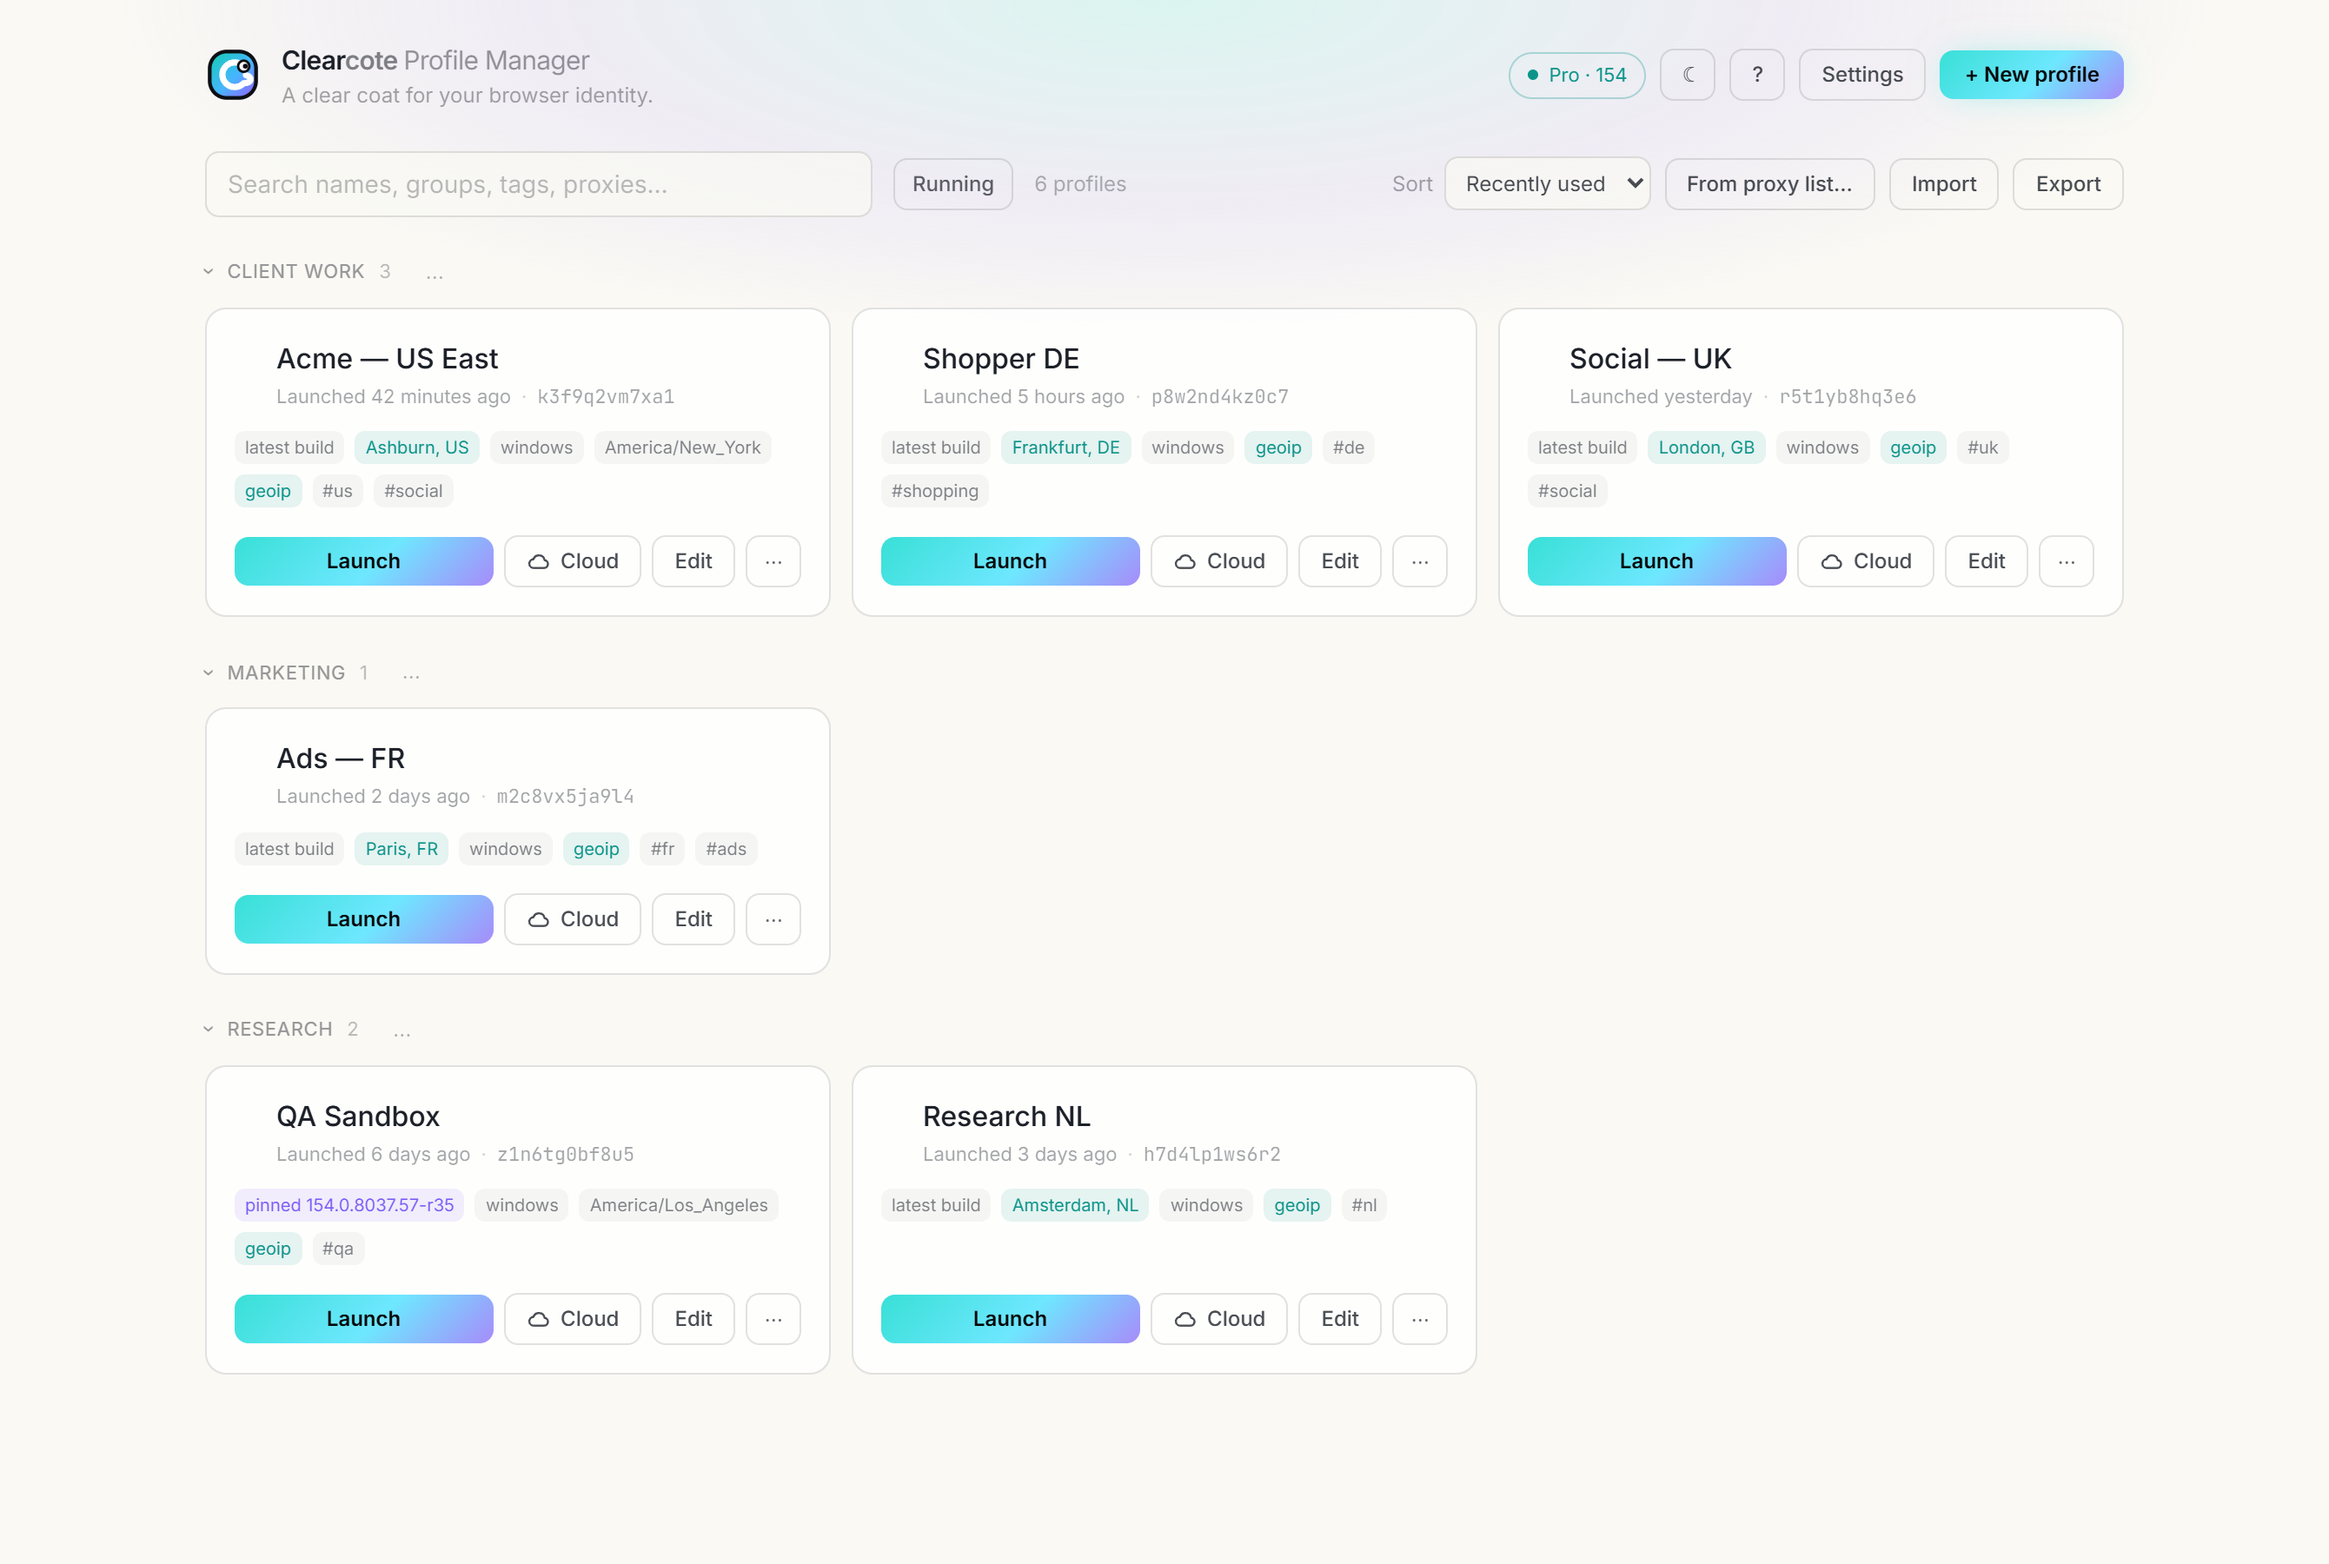
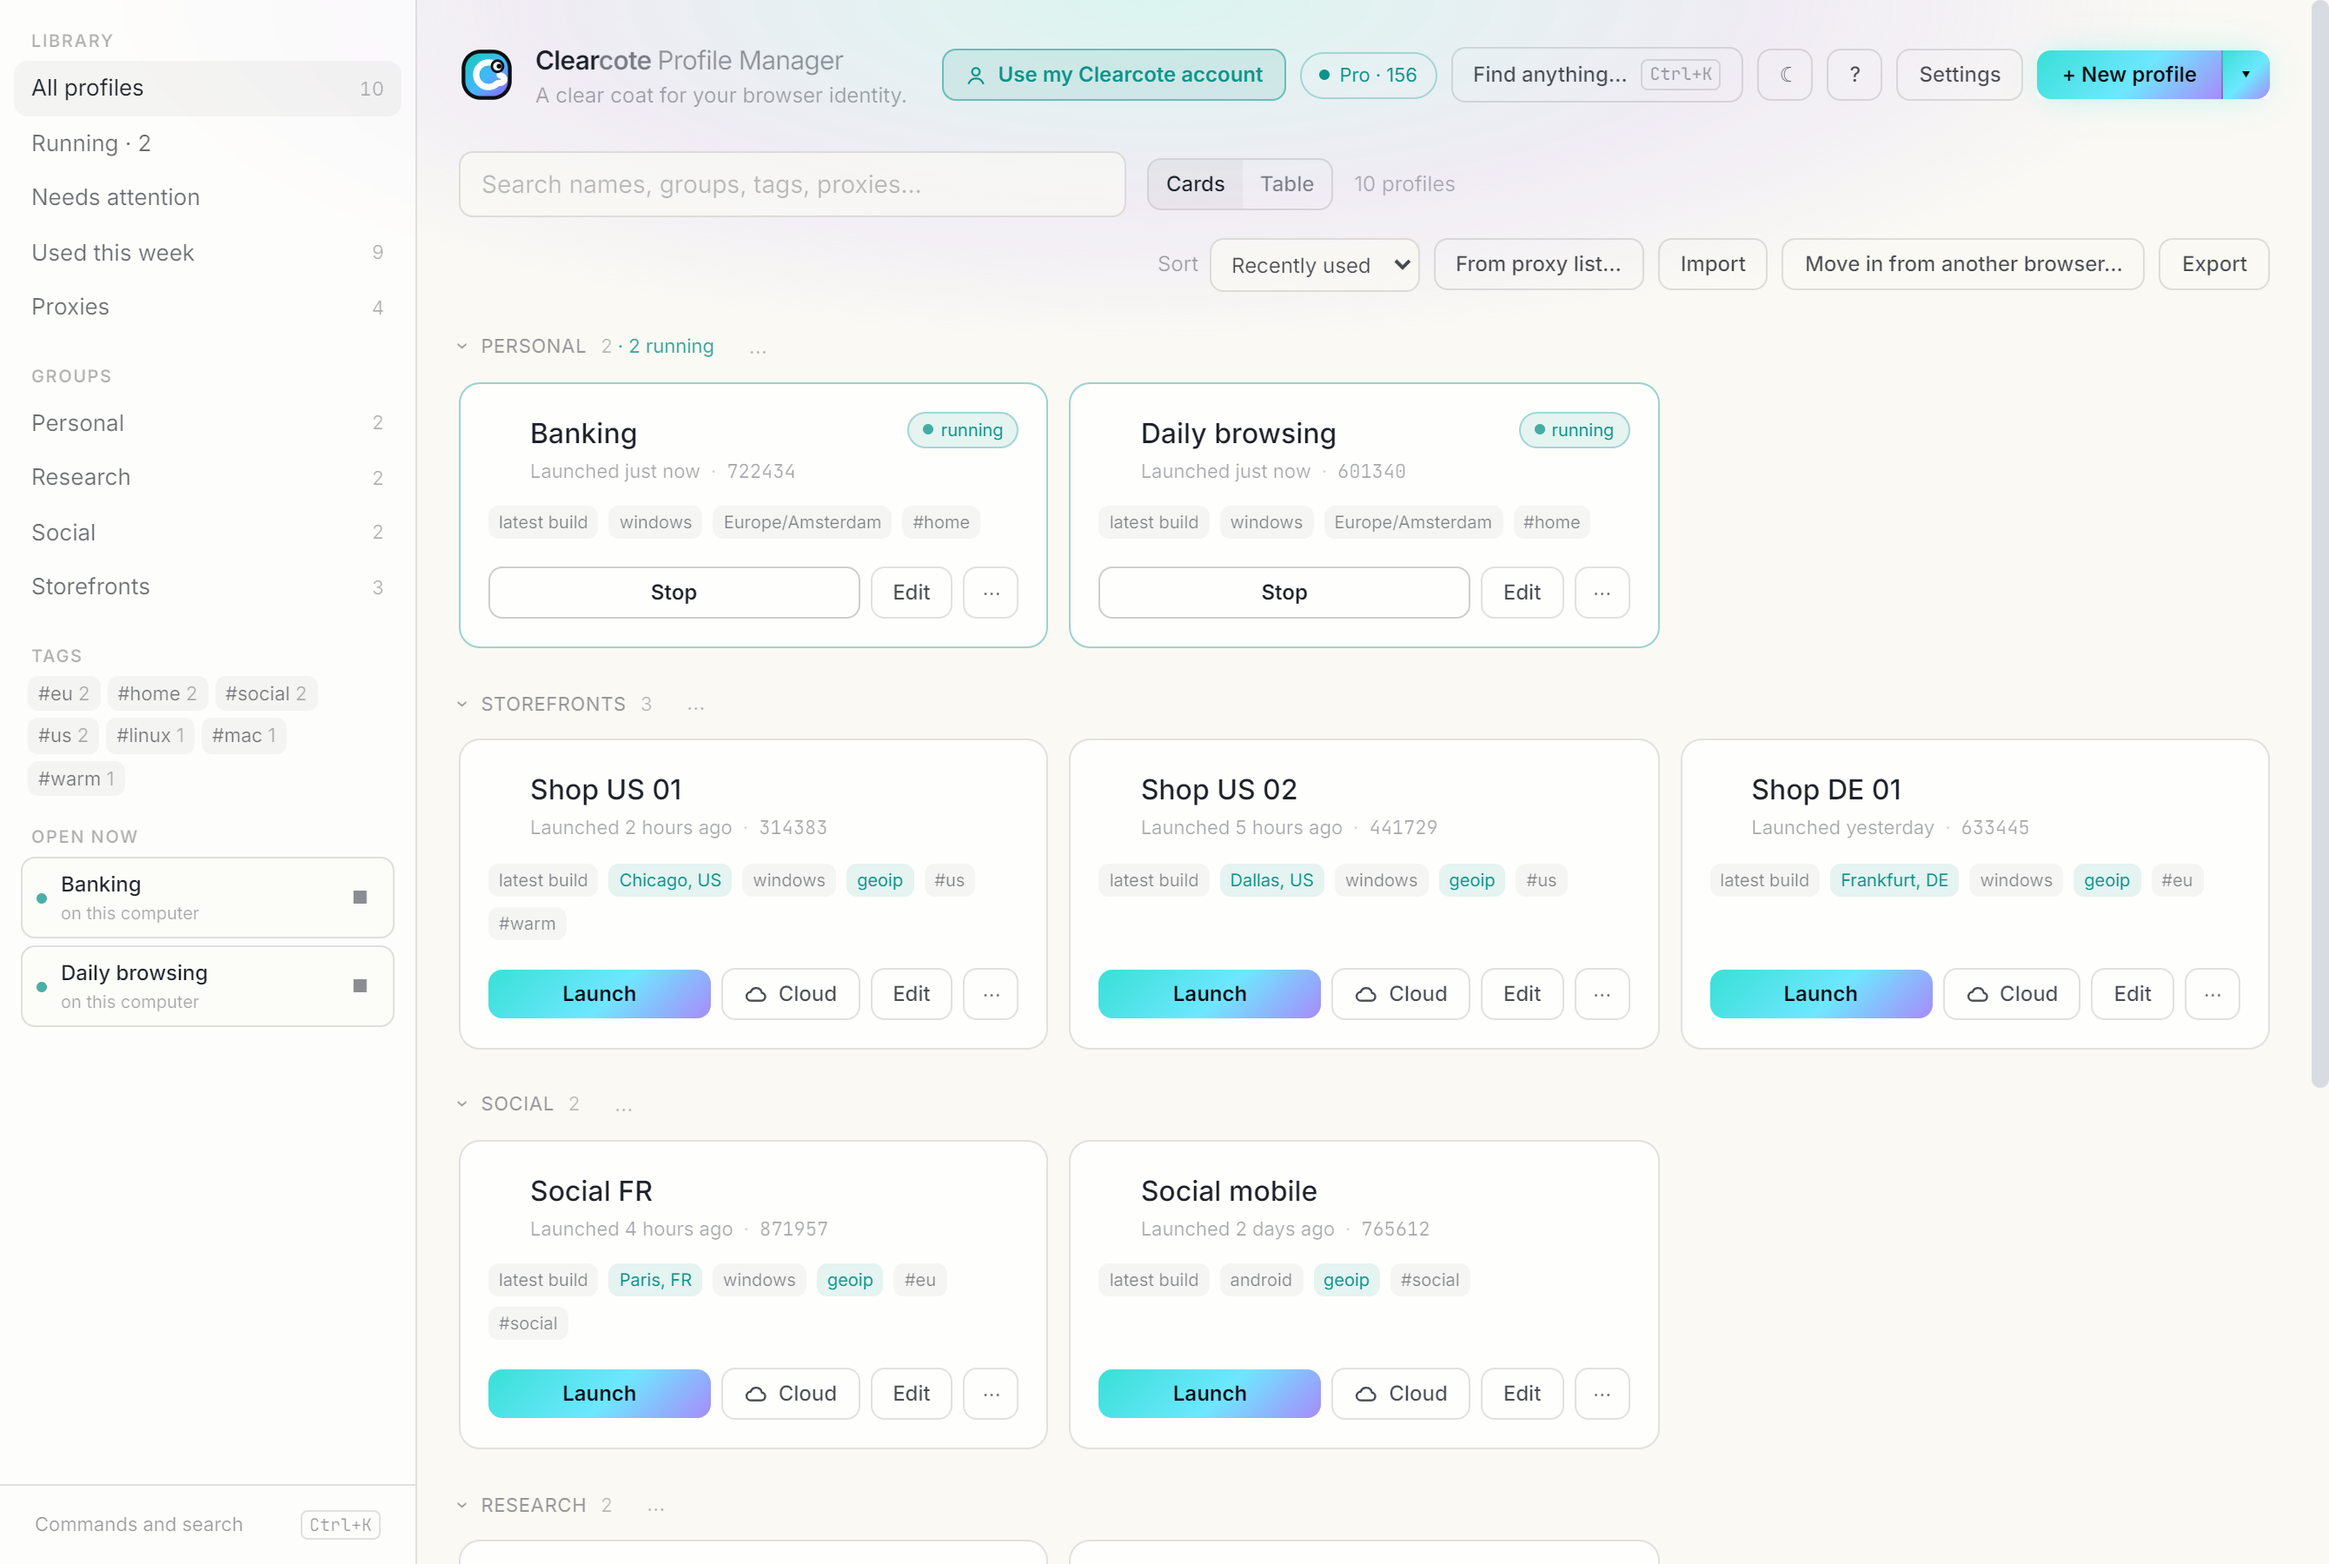
README screenshots retaken from the built app (workspace, table view, run a task, run board, editor with task values, light theme, empty state); app e2e follows the 0.30 layout and the live catalog; two unit tests no longer leave folders in %TEMP%

diff --git a/tests/app.e2e.test.ts b/tests/app.e2e.test.ts
@@ -78,7 +78,8 @@ describe.skipIf(!READY)("the desktop app, end to end", () => {
     if (process.env.E2E_OUTCOMES) fs.appendFileSync(process.env.E2E_OUTCOMES, `${what}: ${outcome.slice(0, 90)}\n`);
   };
   const pillText = () =>
-    win.locator("header button").first().textContent().then((t) => (t || "").trim());
+    // The pill itself: since 0.30.0 the header's first button is the sidebar toggle (☰).
+    win.locator("header [data-launch-target]").first().textContent().then((t) => (t || "").trim());
 
   beforeAll(async () => {
     UDD = fs.mkdtempSync(path.join(os.tmpdir(), "ccpm-app-e2e-"));
@@ -403,9 +404,15 @@ describe.skipIf(!READY)("the desktop app, end to end", () => {
         fs.writeFileSync(path.join(dir, "browser", "chrome.exe"), Buffer.alloc(1_500_000));
         if (marker) fs.writeFileSync(path.join(dir, ".verified"), "x");
       };
-      build(path.join(fakeCache, "pro-153.0.8010.36-r27")); // what Latest runs (licensed)
-      build(path.join(fakeCache, "pro-152.0.7977.82-r22")); // nothing uses it
-      build(path.join(fakeCache, "pro-151.0.7922.108-r18")); // "pinned" pins it
+      // What Latest runs for this licence, asked from the live catalog: a hard-coded build goes stale
+      // the day a newer one ships (153 r27 did, and the plan then had two builds to remove).
+      const lt = (await win.evaluate(() =>
+        (window as unknown as { clearcote: { launchTarget: () => Promise<{ version?: string }> } }).clearcote.launchTarget(),
+      )) as { version?: string };
+      const latestTag = KEY && lt.version ? `pro-${lt.version}` : "pro-latest"; // no key: the removal step below is skipped
+      build(path.join(fakeCache, latestTag)); // what Latest runs (licensed)
+      build(path.join(fakeCache, "pro-153.0.8010.36-r27")); // nothing uses it
+      build(path.join(fakeCache, "pro-152.0.7977.82-r22")); // "pinned" pins it (below)
       build(path.join(fakeTmp, "clearcote-recover-abc"), false);
       build(path.join(fakeTmp, "clearcote-live", "0123456789abcdef"), false);
       // A cache next to real logins, in the profile that has been launched.
@@ -415,14 +422,25 @@ describe.skipIf(!READY)("the desktop app, end to end", () => {
       if (!fs.existsSync(path.join(def, "Preferences"))) fs.writeFileSync(path.join(def, "Preferences"), "{}");
 
       await stopApp();
+      // Pinned to a licensed build the catalog still lists: 151 became an open build on 10-28, so a
+      // 151 PRO revision no longer counts as pinned (and was offered for removal).
+      const pinnedFile = path.join(PROFILES, "pinned.json");
+      fs.writeFileSync(pinnedFile, JSON.stringify({ ...readJson(pinnedFile), browserVersion: "152.0.7977.82-r22" }, null, 2));
       await start({ CLEARCOTE_CACHE: fakeCache, TEMP: fakeTmp, TMP: fakeTmp });
       await win.keyboard.press("Control+Comma");
       const dlg = win.getByRole("dialog", { name: "Settings" });
       await dlg.getByRole("button", { name: "Storage" }).click();
       if (KEY) {
-        await dlg.getByRole("button", { name: /^Remove unused · frees 2 MB$/ }).click({ timeout: 30000 });
+        await dlg
+          .getByRole("button", { name: /^Remove unused · frees 2 MB$/ })
+          .click({ timeout: 30000 })
+          .catch(async (e) => {
+            throw new Error(`${(e as Error).message}
+Latest: ${latestTag}
+Storage shows: ${await dlg.innerText()}`);
+          });
         await dlg.getByText(/^Removed 1 build/).waitFor();
-        expect(fs.readdirSync(fakeCache).sort()).toEqual(["pro-151.0.7922.108-r18", "pro-153.0.8010.36-r27"]);
+        expect(fs.readdirSync(fakeCache).sort()).toEqual(["pro-152.0.7977.82-r22", latestTag].sort());
       }
       await dlg.getByRole("button", { name: "Clean up" }).click();
       await dlg.getByText(/^Cleaned up/).waitFor();

diff --git a/tests/relayudpfallback.test.ts b/tests/relayudpfallback.test.ts
@@ -2,7 +2,7 @@
 // with Relay UDP off, and says so. A relay through such a proxy closes every UDP socket at once (WebRTC
 // error + no public address, HTTP/3 never starts); with it off the browser behaves as with the toggle off.
 
-import { describe, it, expect, vi, beforeAll } from "vitest";
+import { describe, it, expect, vi, beforeAll, afterAll } from "vitest";
 import fs from "node:fs";
 import os from "node:os";
 import path from "node:path";
@@ -13,6 +13,7 @@ const ROOT = fs.mkdtempSync(path.join(os.tmpdir(), "ccpm-relayudp-"));
 vi.mock("electron", () => ({ app: { getPath: () => ROOT } }));
 let relayUdpAfterPin: typeof import("../electron/launcher").relayUdpAfterPin;
 beforeAll(async () => { ({ relayUdpAfterPin } = await import("../electron/launcher")); });
+afterAll(() => fs.rmSync(ROOT, { recursive: true, force: true }));
 
 const prof = (socks5Udp: boolean) => ({ id: "p1", name: "t", proxy: "socks5://203.0.113.5:1080", socks5Udp }) as unknown as Profile;
 

diff --git a/tests/geoip.live.test.ts b/tests/geoip.live.test.ts
@@ -16,7 +16,8 @@ import path from "node:path";
 import type { Profile } from "../electron/types";
 
 const PROXY = process.env.CLEARCOTE_TEST_PROXY;
-const ROOT = fs.mkdtempSync(path.join(os.tmpdir(), "ccpm-geoip-live-"));
+// Only made when the suite runs: skipped (no proxy), its afterAll never runs and the folder was left behind.
+const ROOT = PROXY ? fs.mkdtempSync(path.join(os.tmpdir(), "ccpm-geoip-live-")) : path.join(os.tmpdir(), "ccpm-geoip-live-unused");
 vi.mock("electron", () => ({ app: { getPath: () => ROOT } }));
 afterAll(() => fs.rmSync(ROOT, { recursive: true, force: true }));
 

diff --git a/app/page.tsx b/app/page.tsx
@@ -1367,6 +1367,7 @@ function Manager() {
               className={`hidden items-center gap-1.5 rounded-full border px-2.5 py-1 text-[11px] transition sm:inline-flex ${pillTone}`}
               title={offerAccount ? t("No licence key yet: use your Clearcote account") : pill.title}
               onClick={() => (offerAccount ? startAccountLogin() : setSettingsOpen(pill.section))}
+              data-launch-target="1"
             >
               <span className={`h-1.5 w-1.5 rounded-full ${dotTone}`} />
               {pill.text}

diff --git a/README.md b/README.md
@@ -7,7 +7,17 @@ A desktop app to **create, save, organize, and launch [Clearcote](https://github
 > **Status:** built — profile create/edit/launch, running a profile in the cloud with a live window, proxy geo-resolve, import/export, a light/dark theme (dark by default), and packaged builds for **Windows, Linux and macOS** (all cut by CI on every release). Full design + phases in **[PLAN.md](PLAN.md)**.
 
 <details>
-<summary>More screenshots — meet Clyde, light theme, editor</summary>
+<summary>More screenshots — run a task, table view, editor, light theme, meet Clyde</summary>
+
+**Run a task on many profiles** — Jet learns it in the first profile and repeats it on the rest; each waits for you before a click that can't be undone
+
+![Run a task dialog](docs/screenshots/run-task.png)
+
+![Run board with profiles waiting for approval](docs/screenshots/task-board.png)
+
+**Table view** (cards or a table, from the toolbar)
+
+![Table view](docs/screenshots/table-view.png)
 
 **Empty state — meet Clyde, the Clearcote chameleon** (he bobs, blinks, and shifts hue)
 
@@ -17,7 +27,7 @@ A desktop app to **create, save, organize, and launch [Clearcote](https://github
 
 ![Light theme](docs/screenshots/light-theme.png)
 
-**Profile editor**
+**Profile editor** (here with a profile's task values)
 
 ![Profile editor](docs/screenshots/editor.png)
 
@@ -296,6 +306,14 @@ npm run dist       # package for whichever OS you are on
 | `src/types/` | shared data model (`Profile`) |
 | `tests/` | vitest unit suite (`npm test`) — see [tests/README.md](tests/README.md) |
 | `profiles/` | runtime profile store — JSON per profile + per-profile `userdata/`; git-ignored except the example |
+
+## Screenshots
+
+The README screenshots come from the real desktop app, not the browser preview:
+`npm run build`, then `node scripts/screenshots.mjs --binary latest --jet "<command that starts Jet>" --jet-env <file with TYPESAFE_API_KEY>`
+(`latest` needs a licence key; `--binary <chrome.exe>` uses that browser). It seeds made-up profiles in a throwaway
+data folder, launches two of them, and runs a real task on three, so the run board in the picture is a real run.
+Without `--binary` and `--jet` it takes the shots that need neither.
 
 ## Packaging (Windows + Linux + macOS)
 
